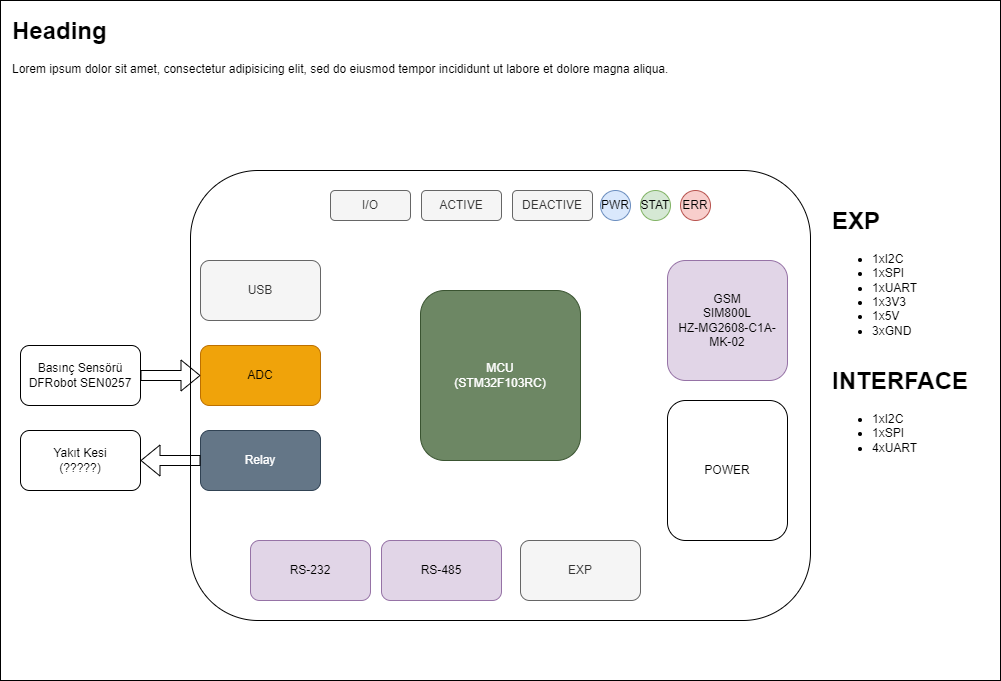
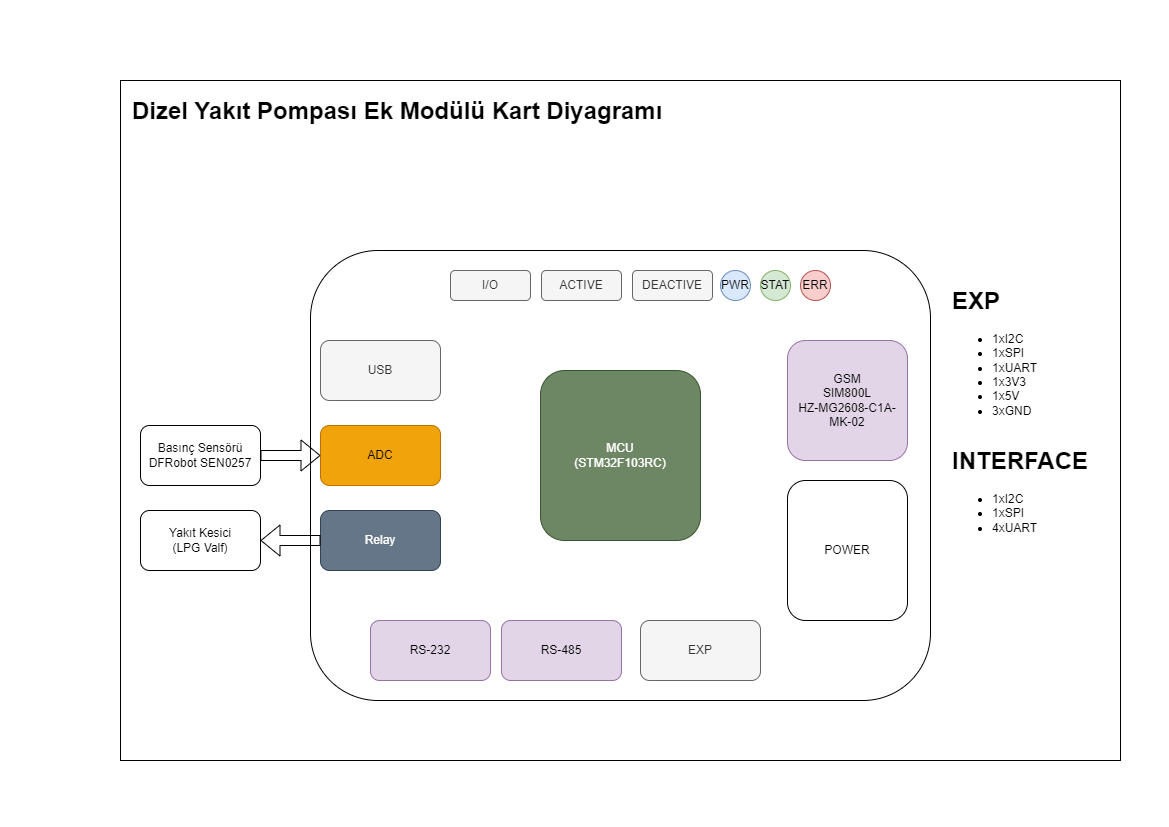
Diyagramlar güncellendi.

diff --git a/README.md b/README.md
@@ -94,3 +94,12 @@ I2C, düşük hızlı senkron seri iletişim sağlayan bir protokoldür. Birden 
 Bu projede belirtilen çözüm adımları doğru bir şekilde uygulandığında ve gerçek uygulama testi analizlerdeki gibi gittiğinde müşterinin tüm sorunu ortadan kaldırılacaktır. Bununla birlikte, sistem uzaktan başlatma ve durdurma gibi ileriye dönük gelişmelere açıktır. Tamamen manuel olarak çalışan su pompası bu entegre ile birlikte durdurma işlemi kontrol edilebilir hale gelmiştir. İleriye dönük eklemeler ve güncellemelerle sistem insan gücünü daha az harcayacak duruma getirilebilir.
 
 Müşteriye eklenen sensörlere ve kartlara zarar vermemesi, afaki koşullarda bulundurmaması için gerekli uyarılar yapılmalıdır. Projede kullanılan akü, kablo gibi zaman içerisinde yıpranan ve ömrünü tüketen materyaller hakkında düzenli bakım yaptırması belirtilmelidir.
+
+Projede kullanılacak kartın diyagrami aşağıdadır:
+
+![Main Diyagram](documents/images/Staj-2024-Main.png)
+
+Projenin çalışma prensibini açıklayan diyagram aşağıdadır:
+
+![System Diyagram](documents/images/Staj-2024-System.png)
+
